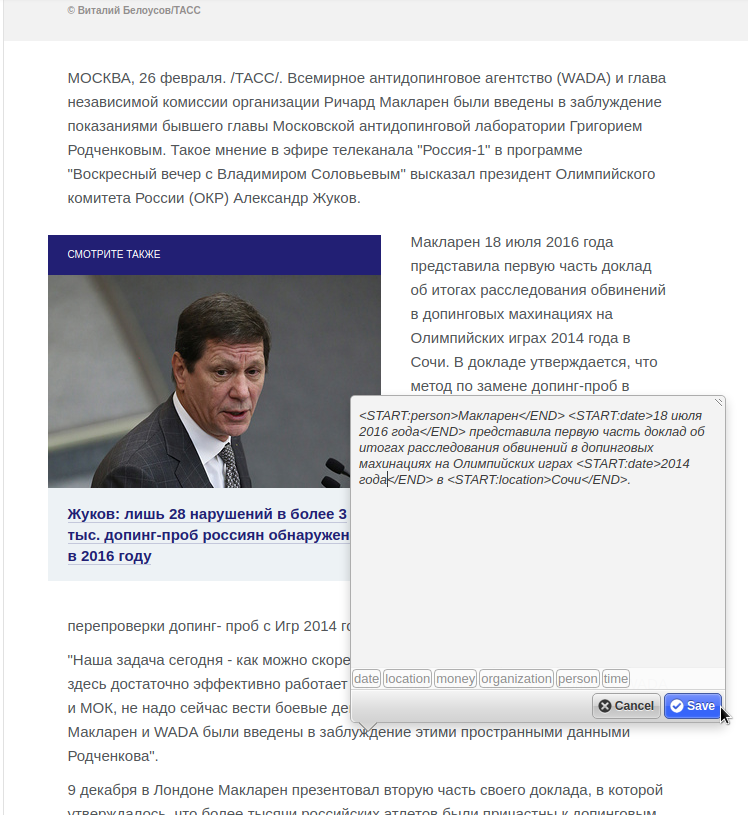
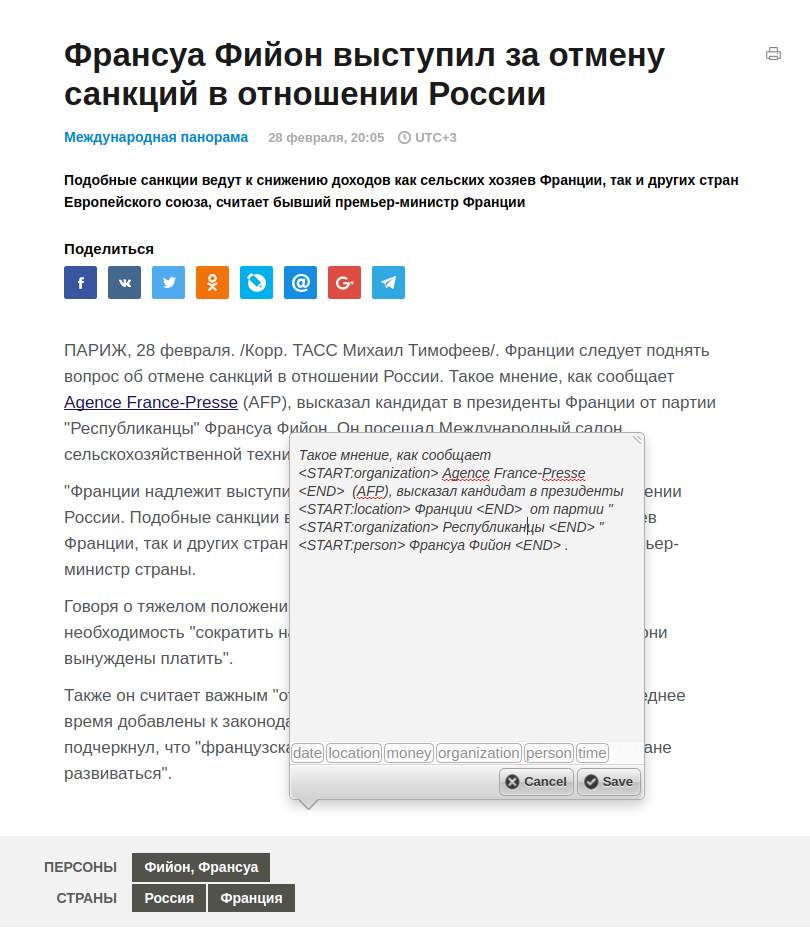
bigger size of main window

diff --git a/js/ner-tagger.js b/js/ner-tagger.js
@@ -80,8 +80,8 @@ var nertagger = {
         //this.element.find('textarea:first').css('font-size', '11px');
 
         // Set width of the main window
-        this.element.find('.annotator-widget').css('min-width', '283px');
-        this.element.find('textarea:first').css('height', '283px');
+        this.element.find('.annotator-widget').css('min-width', '300px');
+        this.element.find('textarea:first').css('height', '300px');
 
         // Call original editor.show function
         this._pre_ner_show(position);
